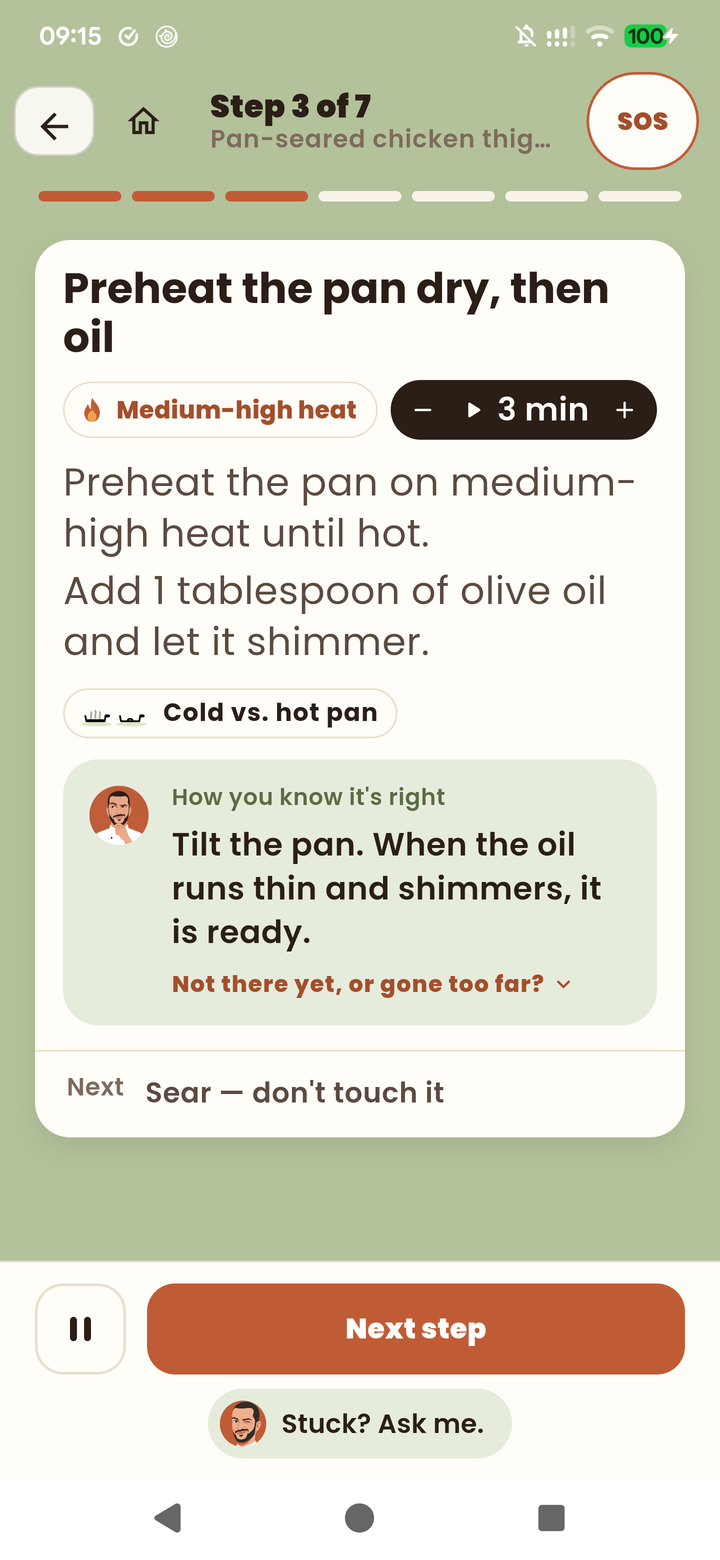
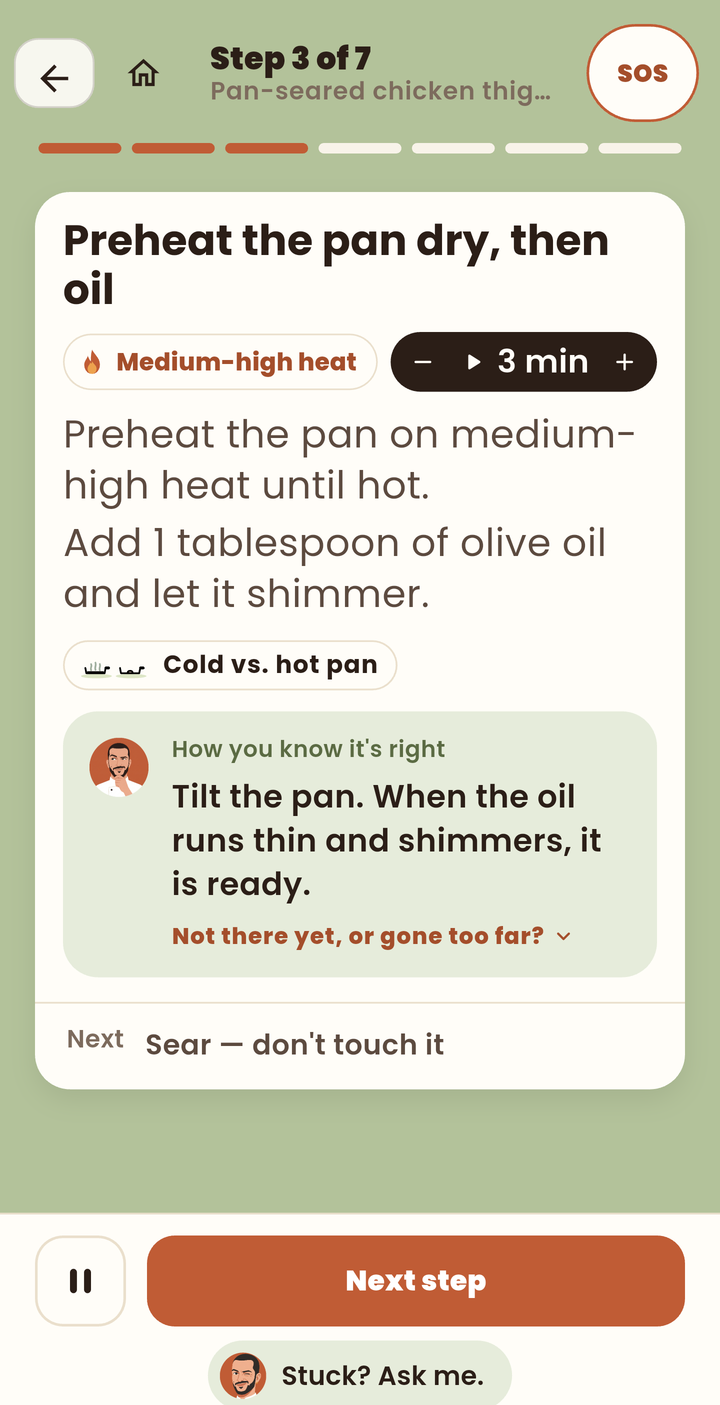
Screenshots: new SOS and "What you learned" captures, one crop for all four
The two new captures replace the 18 Oct ones in originals/. All four web
copies now share one crop box (status bar at the top; red DEV strip and
navigation bar at the bottom), built by scripts/make-screens.mjs, which
also rebuilds the preview sheet. The phone frame on the Home page takes
the crop's aspect so nothing is hidden.

diff --git a/src/styles/global.css b/src/styles/global.css
@@ -140,7 +140,7 @@ img { max-width: 100%; height: auto; display: block; }
 .features h3 { font-size: 1.2rem; margin: 0 0 0.3em; }
 .features p { margin: 0 0 0.9rem; }
 .phone {
-  width: 100%; max-width: 300px; aspect-ratio: 9 / 19.5;
+  width: 100%; max-width: 300px; aspect-ratio: 1440 / 2810; /* the screenshots' crop (scripts/make-screens.mjs) */
   border: 2px solid var(--sage); border-radius: 22px; overflow: hidden; background: var(--sage-wash);
 }
 .phone img { width: 100%; height: 100%; object-fit: cover; }

diff --git a/README.md b/README.md
@@ -25,13 +25,13 @@ The bio strip shows the cartoon face (`src/assets/brand/app_icon_face_only_1024.
 
 ## App screenshots
 
-`src/assets/screens/originals/` holds the four untouched captures (Pixel 7 Pro, 1440×3120, 18 Oct 2026). `src/assets/screens/<name>.png` are the same pictures at 720 px wide, lossless, which the build turns into 360/720 px WebP (quality 90) with PNG fallback. To replace a screenshot: drop the new capture into `originals/` under the same name, then regenerate the 720 px copy:
+`src/assets/screens/originals/` holds the four untouched captures (Pixel 7 Pro, 1440×3120; two from 18 Oct, two from 19 Oct 2026). `src/assets/screens/<name>.png` are the web copies: the same box cropped from every capture (the status bar at the top, and everything from the red DEV strip down, i.e. the strip and the Android navigation bar), 720 px wide, lossless. The build turns them into 360/720 px WebP (quality 90) with PNG fallback, and the phone frame on the Home page has the same aspect as the crop, so nothing is hidden. To replace a screenshot: drop the new capture into `originals/` under the same name, then
 
 ```
-node -e "require('sharp')('src/assets/screens/originals/sos.png').resize({width:720}).png({compressionLevel:9}).toFile('src/assets/screens/sos.png')"
+node scripts/make-screens.mjs
 ```
 
-Never crop, recolour or edit the pictures.
+which rebuilds all four web copies and `docs/sessions/2026-10-18_W2_screens_preview.png`. The crop box is the two numbers at the top of that script. Nothing else is ever done to the pictures: no recolouring, no retouching, no stretching.
 
 ## Share image
 
@@ -126,7 +126,7 @@ The build switch itself is prepared on the branch `go-live` (workflow env lines 
 - [x] Settings → Pages → Source: GitHub Actions
 - [x] GoatCounter account (code `chefharris`)
 - [x] Kit account and form id
-- [x] Four app screenshots (18 Oct 2026)
+- [x] Four app screenshots (18–19 Oct 2026, cropped per `scripts/make-screens.mjs`)
 - [ ] Harris: check `docs/sessions/2026-10-18_W2_screens_preview.png` and the Home page on the Pixel
 - [ ] Harris: Kit custom field `source` + tag number for `kitTesterTagId` (step list 2), then the two test signups
 - [ ] Harris: `docs/GO_LIVE.md` A–C, then "domain live" → Claude Code merges `go-live`
@@ -146,6 +146,7 @@ npm run dev                      # http://localhost:4321
 npm run build                    # production build into dist/ (domain URLs)
 node scripts/make-favicons.mjs   # regenerate the favicon files from the brand icon
 node scripts/make-og-landing.mjs # regenerate the share image
+node scripts/make-screens.mjs    # recrop the app screenshots and the preview sheet
 ```
 
 Preview-mode build (github.io URLs, as the workflow does it): set `SITE_URL=https://chefharris.github.io` and `BASE_PATH=/chefharris-site` before `npm run build`.
@@ -168,4 +169,4 @@ Preview-mode build (github.io URLs, as the workflow does it): set `SITE_URL=http
 - All visible text is the signed text; no copy is invented here.
 - Nothing on the site, in the repo, in alt text or in commit messages names the place where Harris teaches or anyone he teaches. "Hobby cooks", "in person", "real kitchens" only.
 - No cookies, no cookie banner, no comments, no search, no share buttons, no pop-ups, no counters, no German, no paid service. The only form is the Kit email form on the Home page.
-- Brand files are placed, never redrawn or recoloured. Screenshots are never cropped or edited.
+- Brand files are placed, never redrawn or recoloured. Screenshots get one fixed crop (status bar, DEV strip, navigation bar) and nothing else.

diff --git a/docs/sessions/2026-10-19_W2_screens_followup.md b/docs/sessions/2026-10-19_W2_screens_followup.md
@@ -1,0 +1,18 @@
+# W2 follow-up: new SOS and "What you learned" captures, one crop for all four (19 Oct 2026)
+
+## Prompt
+
+> Two screenshots were replaced in src/assets/screens/: sos.png and what-you-learned.png. Both have a red DEV strip at the bottom — crop it off (bottom ~1.5%, down to the start of the navigation bar), and crop the blurred status bar at the top of sos.png (top ~2.5%). Crop all four screenshots to the same final aspect so the phone frames match. Keep the untouched files in originals/, rebuild the web copies, redeploy, update the preview PNG, and tell me the preview URL.
+
+## What was done
+
+- The two new captures (`Screenshot_20261018-220053.png` = What you learned, `Screenshot_20261019-060034.png` = SOS) were renamed and kept untouched in `src/assets/screens/originals/`; the stray full-size copies in `src/assets/screens/` were removed.
+- Measured on the 1440×3120 captures: the red DEV strip is rows 2906–2947 and sits directly above the navigation bar (rows 2952–3119). The status bar occupies rows 0–~94 on all four; in SOS it is blurred by the sheet.
+- One crop box for all four, in `scripts/make-screens.mjs`: keep rows 96–2905 → 1440×2810 (aspect 9:17.56). That removes the status bar (3.1 %, the blur ends at row 90, so 2.5 % was not enough), the DEV strip and, unavoidably, the navigation bar under it: a crop cannot take a band out of the middle, and splicing would be editing. Fridge Clearer and Cook Mode get the same box, so all four lose status bar and navigation bar alike. Cook Mode loses 11 rows of a faint shadow under the "Stuck? Ask me." pill; the pill itself ends at row 2892 and is intact.
+- Web copies rebuilt at 720×1405, lossless; `.phone` in `global.css` now has `aspect-ratio: 1440 / 2810`, so the frames show the whole crop.
+- Preview sheet `docs/sessions/2026-10-18_W2_screens_preview.png` rebuilt by the same script (1370×665, ivory, four frames with the site's sage border).
+- README: "App screenshots" section and rules line updated; `make-screens.mjs` listed under local work.
+
+## Checks
+
+See the commit; preview URL https://chefharris.github.io/chefharris-site/
